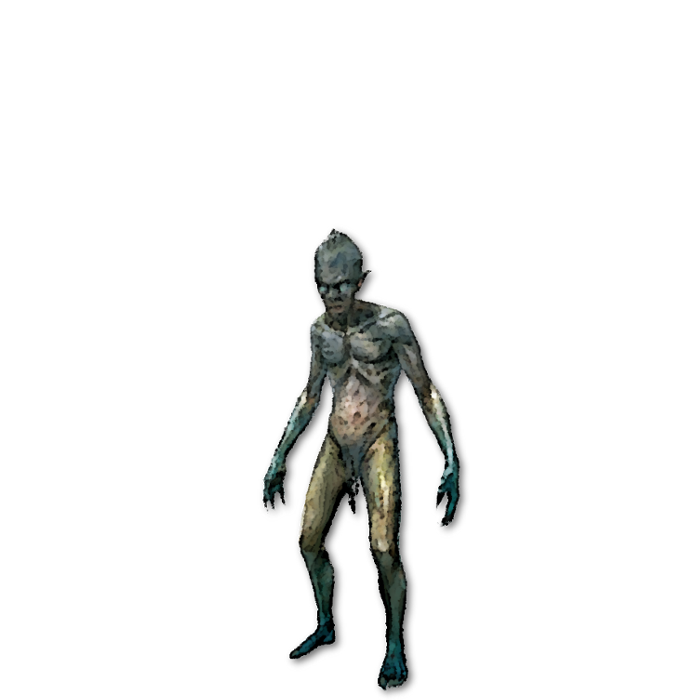
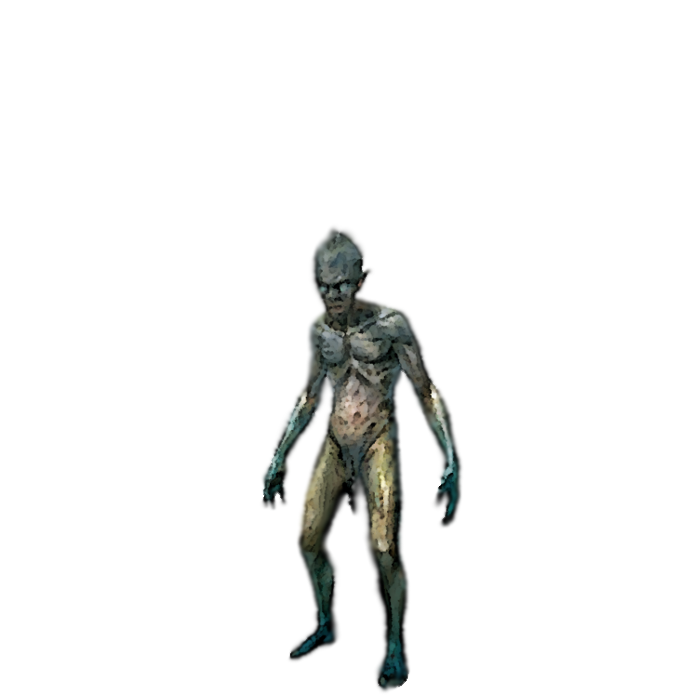
EkranWalka - dalsze upgrade

diff --git a/RPG/Formy/EkranWalka.Designer.cs b/RPG/Formy/EkranWalka.Designer.cs
@@ -28,6 +28,7 @@
         /// </summary>
         private void InitializeComponent()
         {
+            this.components = new System.ComponentModel.Container();
             this.buttonWygralem = new System.Windows.Forms.Button();
             this.buttonPrzegralem = new System.Windows.Forms.Button();
             this.LabelInformacje = new System.Windows.Forms.Label();
@@ -42,6 +43,7 @@
             this.FlowLayoutPanelWyborMikstury = new System.Windows.Forms.FlowLayoutPanel();
             this.pictureBoxWyjdzZEkwipunku = new System.Windows.Forms.PictureBox();
             this.FlowLayoutPanelWyboru = new System.Windows.Forms.FlowLayoutPanel();
+            this.TimerDoZamkniecia = new System.Windows.Forms.Timer(this.components);
             ((System.ComponentModel.ISupportInitialize)(this.PictureBoxUcieczka)).BeginInit();
             ((System.ComponentModel.ISupportInitialize)(this.PictureBoxAtakMagiczny)).BeginInit();
             ((System.ComponentModel.ISupportInitialize)(this.PictureBoxEkwipunek)).BeginInit();
@@ -209,6 +211,11 @@
             this.FlowLayoutPanelWyboru.Size = new System.Drawing.Size(386, 177);
             this.FlowLayoutPanelWyboru.TabIndex = 1;
             // 
+            // TimerDoZamkniecia
+            // 
+            this.TimerDoZamkniecia.Interval = 5000;
+            this.TimerDoZamkniecia.Tick += new System.EventHandler(this.TimerDoZamkniecia_Tick);
+            // 
             // EkranWalka
             // 
             this.AutoScaleDimensions = new System.Drawing.SizeF(6F, 13F);
@@ -260,5 +267,6 @@
         private System.Windows.Forms.FlowLayoutPanel FlowLayoutPanelWyborMikstury;
         private System.Windows.Forms.PictureBox pictureBoxWyjdzZEkwipunku;
         private System.Windows.Forms.FlowLayoutPanel FlowLayoutPanelWyboru;
+        private System.Windows.Forms.Timer TimerDoZamkniecia;
     }
 }

diff --git a/RPG/Formy/EkranWalka.cs b/RPG/Formy/EkranWalka.cs
@@ -8,6 +8,8 @@ using System.Text;
 using System.Threading.Tasks;
 using System.Windows.Forms;
 
+using System.Windows.Input;
+
 namespace RPG
 {
     public partial class EkranWalka : Form
@@ -30,7 +32,8 @@ namespace RPG
             Program.DopasujRozmiarFormyDoEkranu(this);
 
             //Ustawienie przycisków
-            Program.UstawObrazZDopasowaniemWielkosciKontrolkiDoObrazu(PictureBoxUcieczka,"Resources/Grafiki menu/Przykładowy przycisk.png");
+            PictureBoxUcieczka.Size = new Size(Width/3,30);
+            Program.UstawObrazZDopasowaniemWielkosciObrazuDoKontrolki(PictureBoxUcieczka,"Resources/Grafiki menu/Przykładowy przycisk.png");
 
             foreach (PictureBox przycisk in FlowLayoutPanelWyboru.Controls)
             {
@@ -116,7 +119,7 @@ namespace RPG
             else
             {
                 LabelInformacje.Text = "Udało Ci się uciec!";
-                //DialogResult = DialogResult.Ignore;
+                TimerDoZamkniecia.Start();
             }
         }
         #endregion
@@ -141,6 +144,11 @@ namespace RPG
             FlowLayoutPanelWyborMikstury.Visible = false;
         }
         #endregion
+
+        private void TimerDoZamkniecia_Tick(object sender, EventArgs e)
+        {
+            LabelInformacje.Text = "HA! Chciałbyś, żeby się form zamknął, co?!? :D";
+        }
 
 
         /*

diff --git a/RPG/Klasy/Program.cs b/RPG/Klasy/Program.cs
@@ -281,7 +281,7 @@ namespace RPG
                             int szerokoscPrzeciwnika = Kontrolka.Bounds.Width * 30 / 100;
                             int wysokoscPrzeciwnika = Kontrolka.Bounds.Height * 50 / 100;
                             int pozycjaPrzeciwnikaX = Kontrolka.Bounds.Width / 2 - szerokoscPrzeciwnika / 2;
-                            int pozycjaPrzeciwnikaY = Kontrolka.Bounds.Height / 3;
+                            int pozycjaPrzeciwnikaY = Kontrolka.Bounds.Height / 4;
                             grafikaWalki.DrawImage(obrazekPrzeciwnika, pozycjaPrzeciwnikaX, pozycjaPrzeciwnikaY, szerokoscPrzeciwnika, wysokoscPrzeciwnika);
                             Kontrolka.BackgroundImage = obrazekDoWstawienia;
                         }

diff --git a/RPG/Tla/EkranWalkaTlo.cs b/RPG/Tla/EkranWalkaTlo.cs
@@ -41,7 +41,7 @@ namespace RPG
             //Do losowania postaci potrzeba tu dostępu do obiektu Postac, zeby po indexach wczytywać
             //string postac = losowanie.Next(0, 0).ToString();
             //string sciezkaPostaci = "Resources/Grafiki tła walki/" + plansza + ".png";
-            Program.UstawObrazPolaBitwy(this, sciezkaPlanszy, "Resources/Grafiki postaci walczących/goblin.png");
+            Program.UstawObrazPolaBitwy(this, sciezkaPlanszy, "Resources/Grafiki postaci walczących/cyklop.png");
         }
     }
 }
